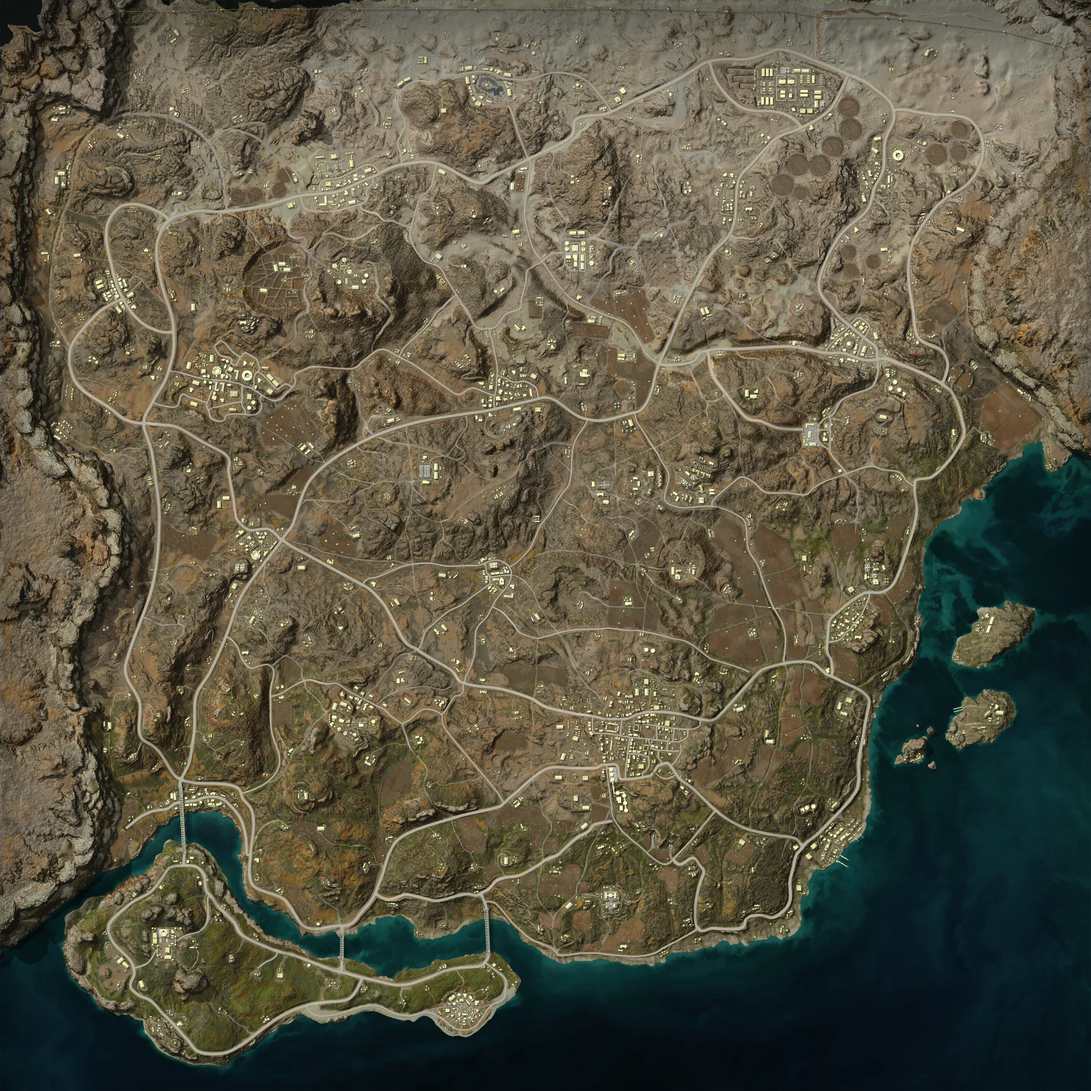
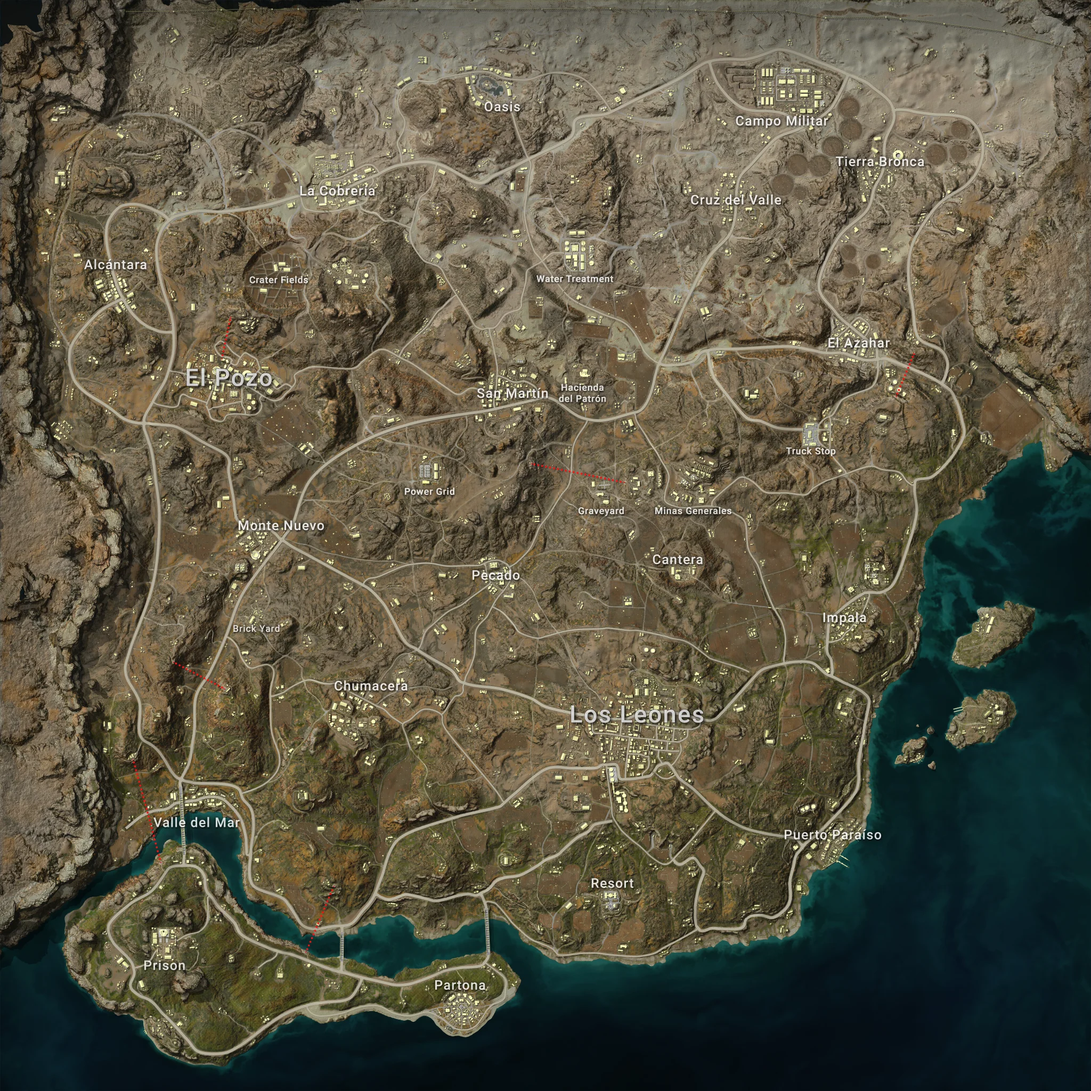
feat: 맵 이미지를 지명 라벨 포함 버전으로 교체
- pubg/api-assets의 {맵}_Main_High_Res.png(No_Text 아닌 버전)로 교체 — 실사용
  가독성(어느 마을 근처인지 파악)이 우선한다고 판단
- 부수 효과: 공식 지명과 큐레이션 좌표 라벨을 육안 대조 검증 가능해짐
- 화질 관련: 이 자산은 8192px 마스터 아트를 다운스케일한 것이라 인게임 캡처(모니터
  해상도+UI 렌더링 한도)보다 오히려 더 높은 화질이 보장됨 — README/ARCHITECTURE.md 갱신

diff --git a/README.md b/README.md
@@ -69,7 +69,7 @@ DB가 없으면 임시 컨테이너로: `docker run -d -e POSTGRES_PASSWORD=post
 ## 데이터 출처와 한계
 
 - **맵 이미지**: `github.com/pubg/api-assets`(KRAFTON 공식, API 개발자용 리소스)의
-  고해상도(8192×8192) No_Text 원본을 2048px WebP로 압축해 사용.
+  고해상도(8192×8192, 지명 라벨 포함) 원본을 2048px WebP로 압축해 사용.
 - **좌표 데이터(고정 스폰/비밀의 방/지하벙커)**: 공식 API가 이런 정적 배치 정보를 제공하지
   않아, 커뮤니티 자료(나무위키, 여러 팬사이트)를 교차검증해 직접 큐레이션한 것이다.
   **전수조사가 아니며 완전하지 않을 수 있고**, 게임 패치·맵 리메이크로 실제와 달라질 수

diff --git a/frontend/README.md b/frontend/README.md
@@ -36,7 +36,7 @@ DB엔 이미지 좌상단 원점 픽셀 좌표를 저장한다. `src/lib/geo.ts`
 ## 맵 이미지
 
 4개 맵 전부 `public/maps/<slug>.webp`로 채워져 있다(2048×2048, `github.com/pubg/api-assets`
-공식 High_Res No_Text 원본을 웹용으로 압축). `MapCanvas`는 `map.imageUrl`을 브라우저에서
+공식 High_Res 원본(지명 라벨 포함)을 웹용으로 압축). `MapCanvas`는 `map.imageUrl`을 브라우저에서
 프리로드해보고 성공하면 자동으로 `ImageOverlay`로 전환, 실패 시(예: 이미지가 아직 없는
 환경) "지도 이미지 준비중" placeholder로 우아하게 대체한다 — 코드 변경 없이 자산만
 바뀌어도 그대로 반영되는 구조는 유지.
